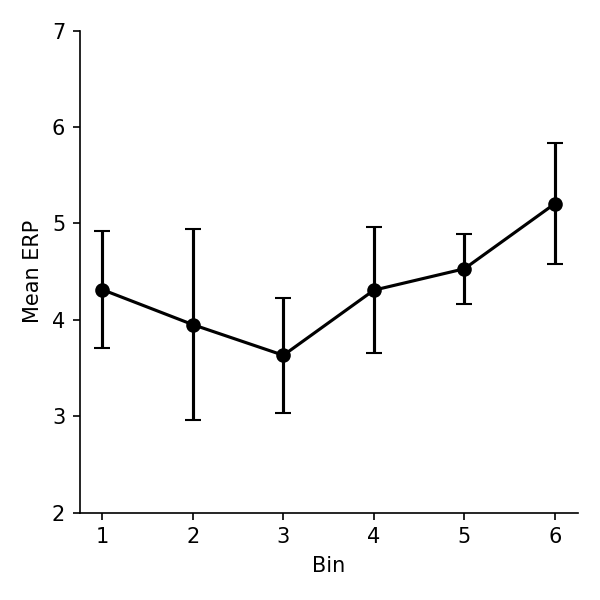
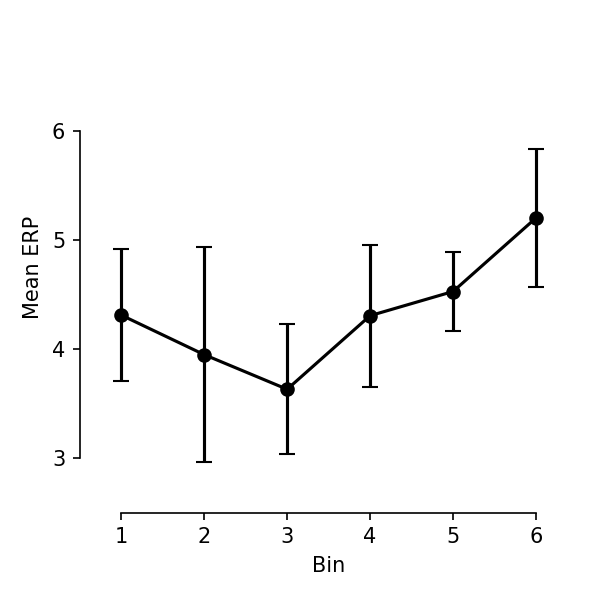
misc python

diff --git a/go_plg.py b/go_plg.py
@@ -35,7 +35,12 @@ sns.lineplot(data=d, x="Bin", y="MeanERP", hue="Participant",
              marker="o", ax=ax, legend=False)
 ax.set_xlabel("Bin")
 ax.set_ylabel("Mean ERP")
+ax.set_xlim([0.5, 6.5])
+ax.set_ylim([0.5, 8])
+ax.set_yticks([1, 2, 3, 4, 5, 6, 7])
 sns.despine()
+ax.spines['bottom'].set_bounds(1,6)
+ax.spines['left'].set_bounds(1,7)
 plt.tight_layout()
 fname = "plot1_individual_trajectories.png"
 print(f"saving plot to {fname}")
@@ -43,16 +48,20 @@ plt.savefig(fname, dpi=150)
 plt.close()
 
 # Plot 2: group mean +/- 95% within-subject CI (Cousineau-Morey)
-summary = cousineau_morey_ci(d, 'Participant', 'Bin', 'MeanERP')
+bin_means = cousineau_morey_ci(d, 'Participant', 'Bin', 'MeanERP')
 
 fig, ax = plt.subplots(figsize=(4, 4))
-ax.errorbar(summary["Bin"], summary["mean"],
-            yerr=summary["ci_half_width"], fmt="o-", color="black",
+ax.errorbar(bin_means["Bin"], bin_means["mean"],
+            yerr=bin_means["ci_half_width"], fmt="o-", color="black",
             capsize=4, linewidth=1.5)
 ax.set_xlabel("Bin")
 ax.set_ylabel("Mean ERP")
-ax.set_ylim([2, 7])
+ax.set_ylim([2.5, 7])
+ax.set_yticks([3, 4, 5, 6])
+ax.set_xlim([0.5, 6.5])
 sns.despine()
+ax.spines['bottom'].set_bounds(1,6)
+ax.spines['left'].set_bounds(3,6)
 plt.tight_layout()
 fname = "plot2_group_mean_ci.png"
 print(f"saving plot to {fname}")